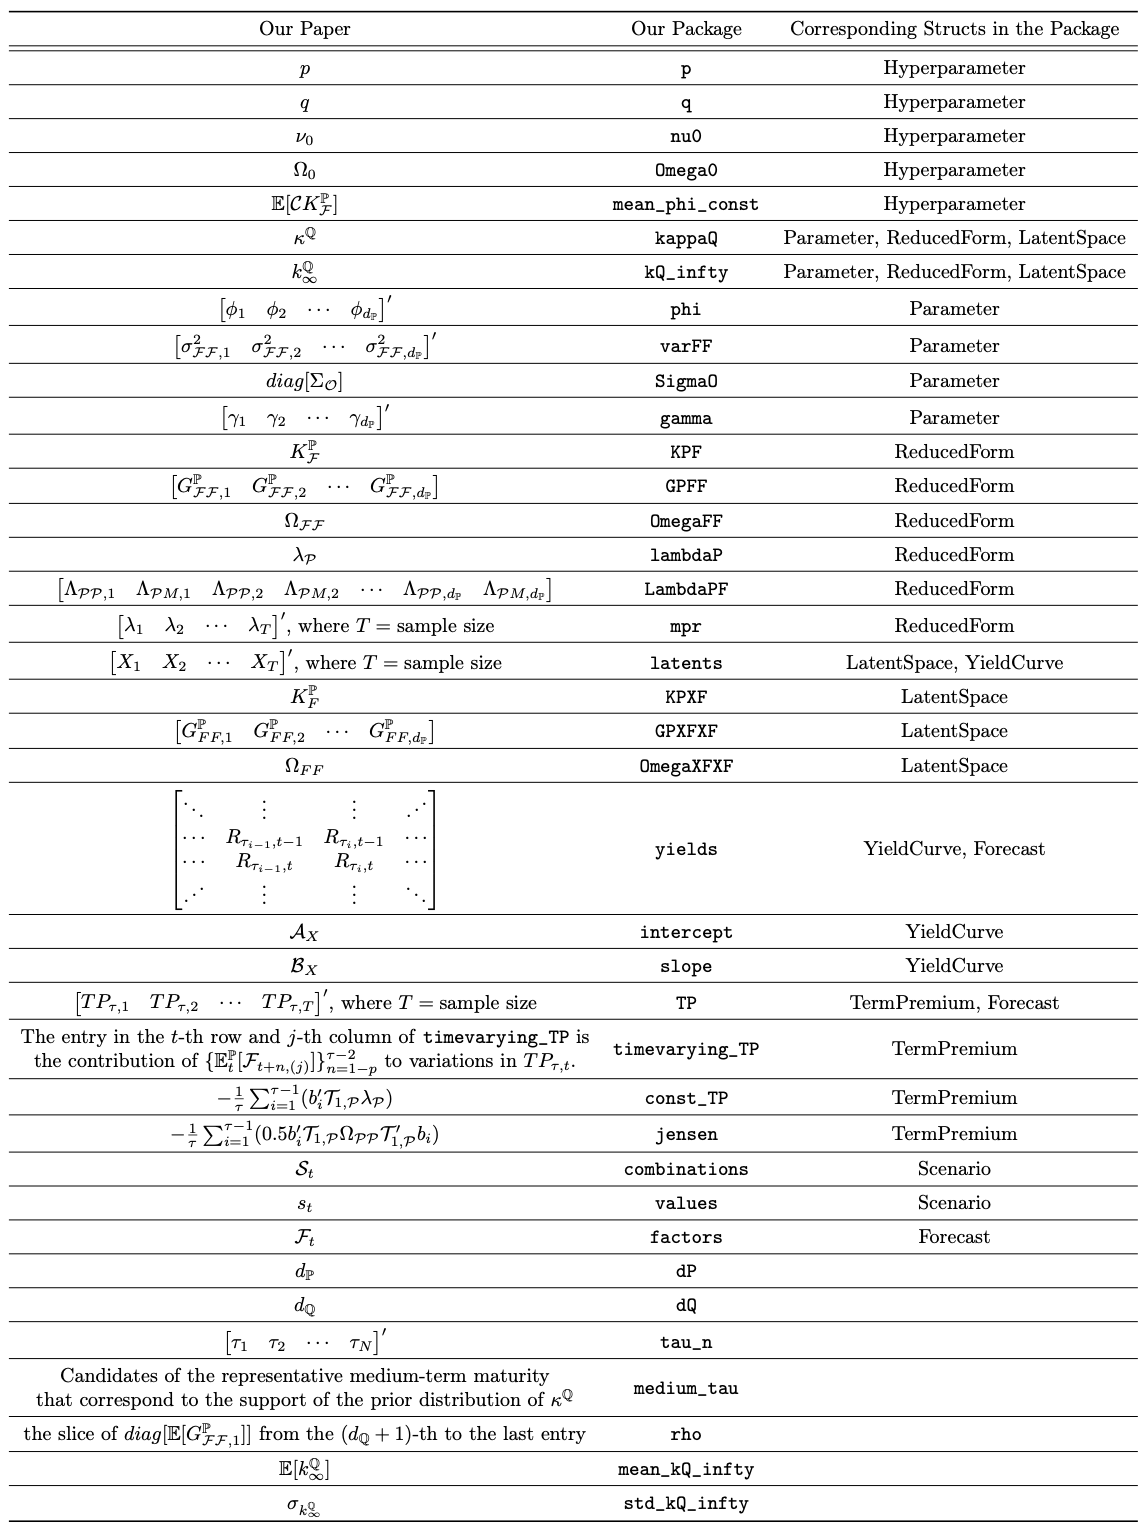
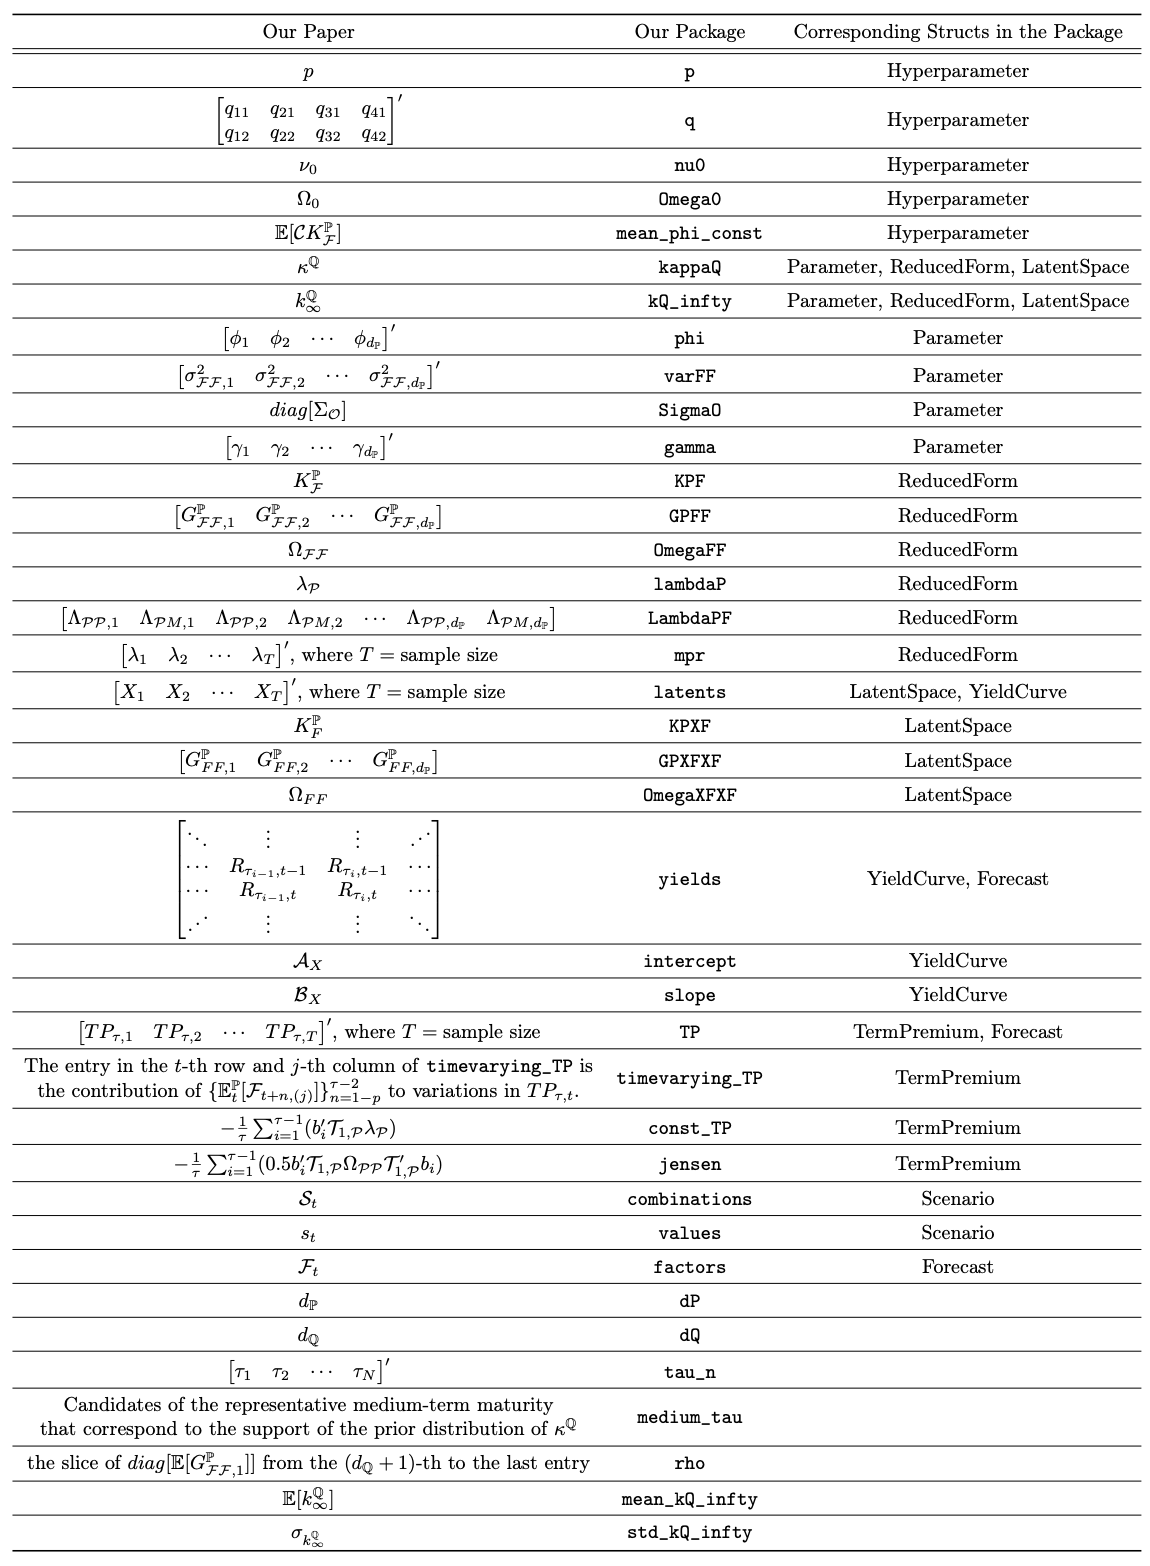
changes in default values

Changed region(s): [[0.0, 0.0, 1.0, 1.0]]

diff --git a/docs/src/estimation.md b/docs/src/estimation.md
@@ -1,22 +1,27 @@
-### Step1. Tuning hyper-parameters
+# Step 1. Tuning hyper-parameters
 
-We have four hyper-parameters, $p$, $q$, $\nu_0$, and $\Omega_0$.
+We have five hyper-parameters, `p`, `q`, `nu0`, `Omega0`, and `mean_phi_const`.
 
-- $p$(Float64): lag of the VAR(p) in $\mathbb{P}$ -measure
-- $q$(Vector) $=$ [ $q_1$; $q_2$; $q_3$; $q_4$]: Minnesota prior
-  - Prior variances of slopes $\propto$ $q_1$/ ${lag}^{q_3}$ (for own lagged variables) or $q_2$/ ${lag}^{q_3}$ (for cross lagged variables)
-  - Prior variances of intercepts $\propto$ $q_4$
-- $\nu_0$(Float64), $\Omega_0$(Vector): Error covariance of VAR(p) $\backsim$ InverseWishart($\nu_0$, $\Omega_0$)
+- `p::Float64`: lag length of the $\mathbb{P}$-VAR(p)
+- `q::Matrix{Float64}( , 4, 2)`: Shrinkage degrees in the Minnesota prior
+- `nu0::Float64`(d.f.) and `Omega0::Vector`(scale matrix): Prior distribution of the error covariance matrix in the $\mathbb{P}$-VAR(p)
+- `mean_phi_const`: Prior mean of the intercept term in the $\mathbb{P}$-VAR(p)
 
-We have additional two hyper-parameters that can be decided more objectively.
+We recommend [`tuning_hyperparameter`](https://econpreference.github.io/TermStructureModels.jl/dev/api/#TermStructureModels.tuning_hyperparameter-NTuple{4,%20Any}) for deciding the hyperparameters.
 
-- $\rho$(Vector): rho is a vector that has a size of size(macros,2). If $i$'th variable in macros is a growth(or level) variable, $\rho$[i] = 0(or $\approx$ 1) should be set.
-- medium_tau(Vector): Candidate maturities where the curvature factor loading is maximized. The default value is [12, 18, 24, 30, 36, 42, 48, 54, 60] (months). When you estimate quarterly or annual data, this value should be modified.
+```julia
+tuned, results = tuning_hyperparameter(yields, macros, tau_n, rho; populationsize=50, maxiter=10_000, medium_tau=collect(24:3:48), upper_q=[1 1; 1 1; 10 10; 100 100], mean_kQ_infty=0, std_kQ_infty=0.1, upper_nu0=[], mean_phi_const=[], fix_const_PC1=false, upper_p=18, mean_phi_const_PC1=[], data_scale=1200, medium_tau_pr=[], init_nu0=[])
+```
 
-Struct "HyperParameter($p$, $q$, $\nu_0$, $\Omega_0$)" contains hyper-parameter values. We have a function "tuning_hyperparameter" that generates struct "HyperParameter" in a data-driven way (Chan, 2022).
+!!! note
+Since we adopt the Differential Evolutionary algorithm, it is hard to set the terminal condition. Our strategy was "Run the algorithm with sufficient `maxiter`(our defaults), and verify that it is an global optimum by plotting the objective function". It is appropriate for academic projects.
+
+    However, it is not good for practical projects. small `populationsize` or `maxiter` may not lead to the best model, but it will find a good model. The prior distribution
+
+If users accept our default values, the function simplifies, that is
 
 ```juila
-tuned = tuning_hyperparameter(yields, macros, rho)
+tuned, results = tuning_hyperparameter(yields, macros, tau_n, rho)
 ```
 
 When using the function, T by N matrix "yields" and T by M matrix "macros" should contain initial observations ($t$ = 0, -1, -2, $\cdots$).
@@ -35,7 +40,7 @@ PCs, OCs, Wₚ, Wₒ = PCA(yields, p; rescaling=true)
 
 The function uses eigenVectors of cov(yields[p+1:end,:]) to transform yields[1:end, :] to PCs. When rescaling = true, standard deviations of all PCs are normalized to an average of standard deviations of yields. Here, PCs and OCs are the first three and remaining principal components, respectively. Also, PCs[t, :] = Wₚ $\times$ yields[t, :] and OCs[t, :] = Wₒ $\times$ yields[t, :] hold.
 
-### Step 2. sampling the posterior distribution of GDTSM
+# Step 2. sampling the posterior distribution of GDTSM
 
 ```juila
 saved_params, acceptPr_C_varFF, acceptPr_ηψ = posterior_sampler(yields, macros, tau_n, rho, iteration, tuned::HyperParameter; sparsity=false, medium_tau=12 * [1, 1.5, 2, 2.5, 3, 3.5, 4, 4.5, 5], init_param=[])

diff --git a/docs/src/index.md b/docs/src/index.md
@@ -12,4 +12,4 @@ Our Package has the below functions,
 
 To use such functions, [an estimation of the model](https://econpreference.github.io/TermStructureModels.jl/dev/estimation/) must first be conducted. That is, use [`posterior_sampler`](https://econpreference.github.io/TermStructureModels.jl/dev/api/#TermStructureModels.posterior_sampler-Tuple{Any,%20Any,%20Any,%20Any,%20Any,%20Hyperparameter}) to obtain posterior samples of parameters. The output of the function has a form of `Vector{Parameter}(posterior, iteration)`. This output is used for the above functions(Statistical inference and Forecasting). For details, refer to the corresponding pages.
 
-The meanings of objects and variables can be found in [Section notation](https://econpreference.github.io/TermStructureModels.jl/dev/notations/).
+Our package is based on [our paper](https://papers.ssrn.com/sol3/papers.cfm?abstract_id=4708628). Descriptions of our model and the meanings of each variable can be found in the paper. [The notation section](https://econpreference.github.io/TermStructureModels.jl/dev/notations/) organizes which notation in the paper corresponds to the variable in our package.
